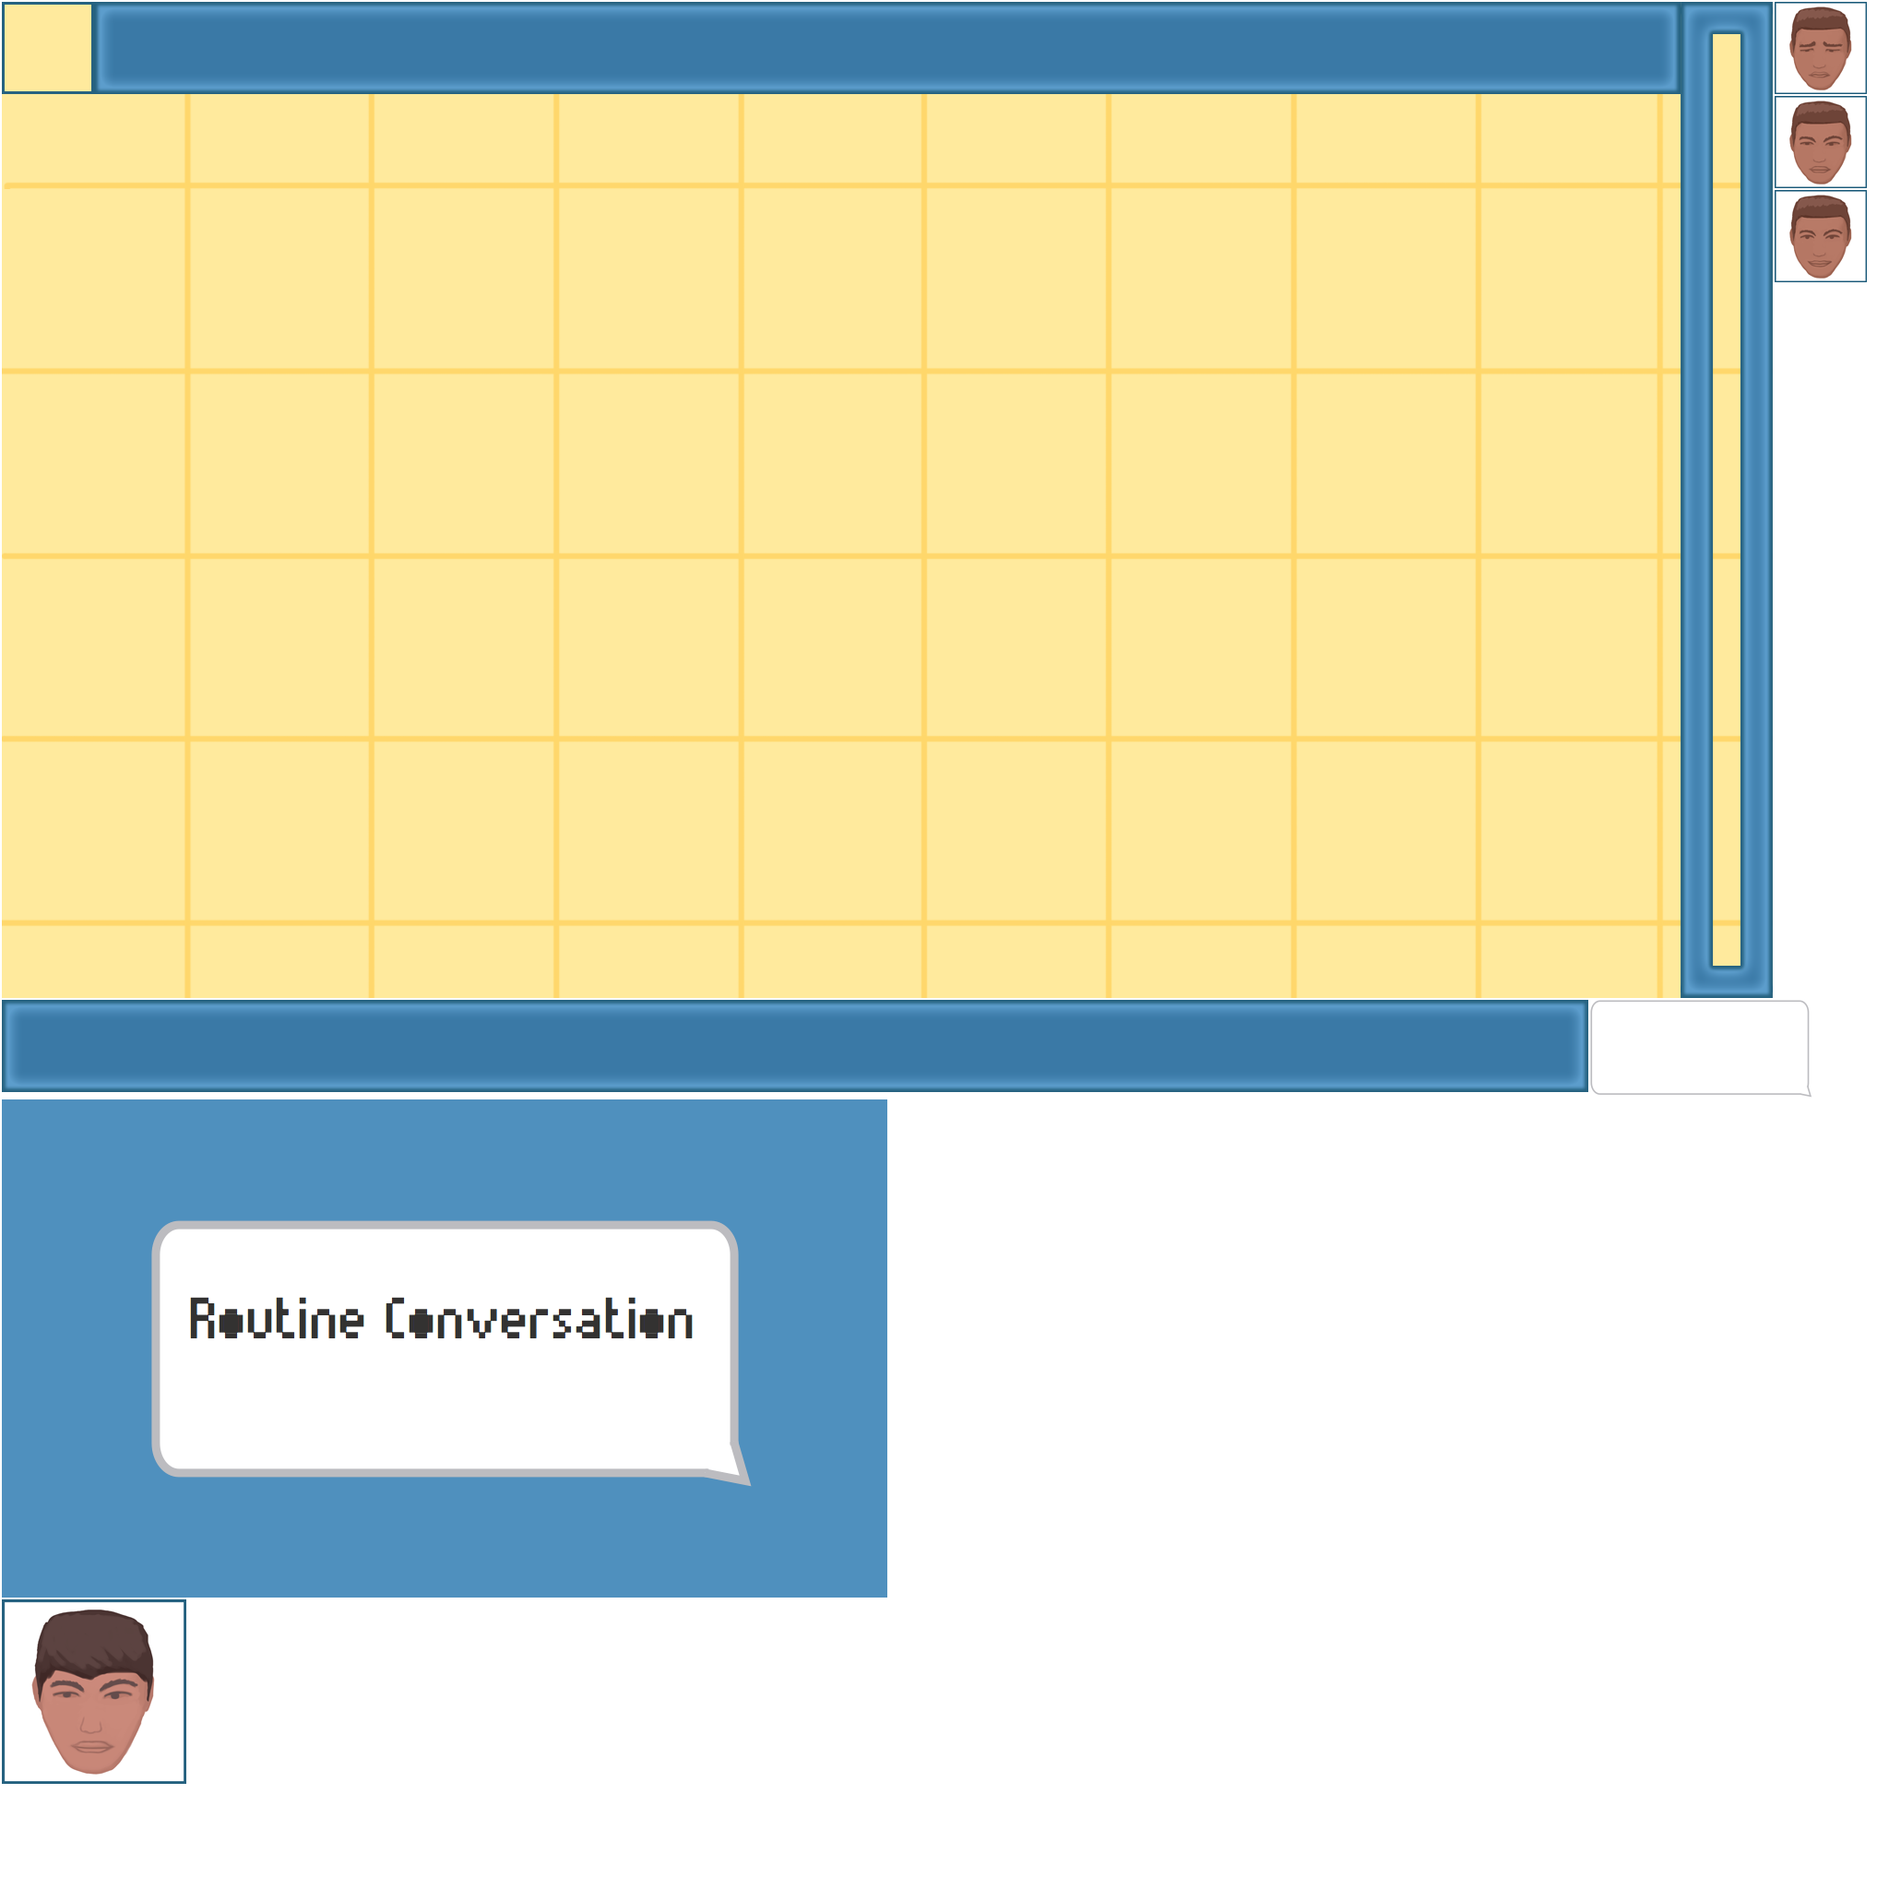
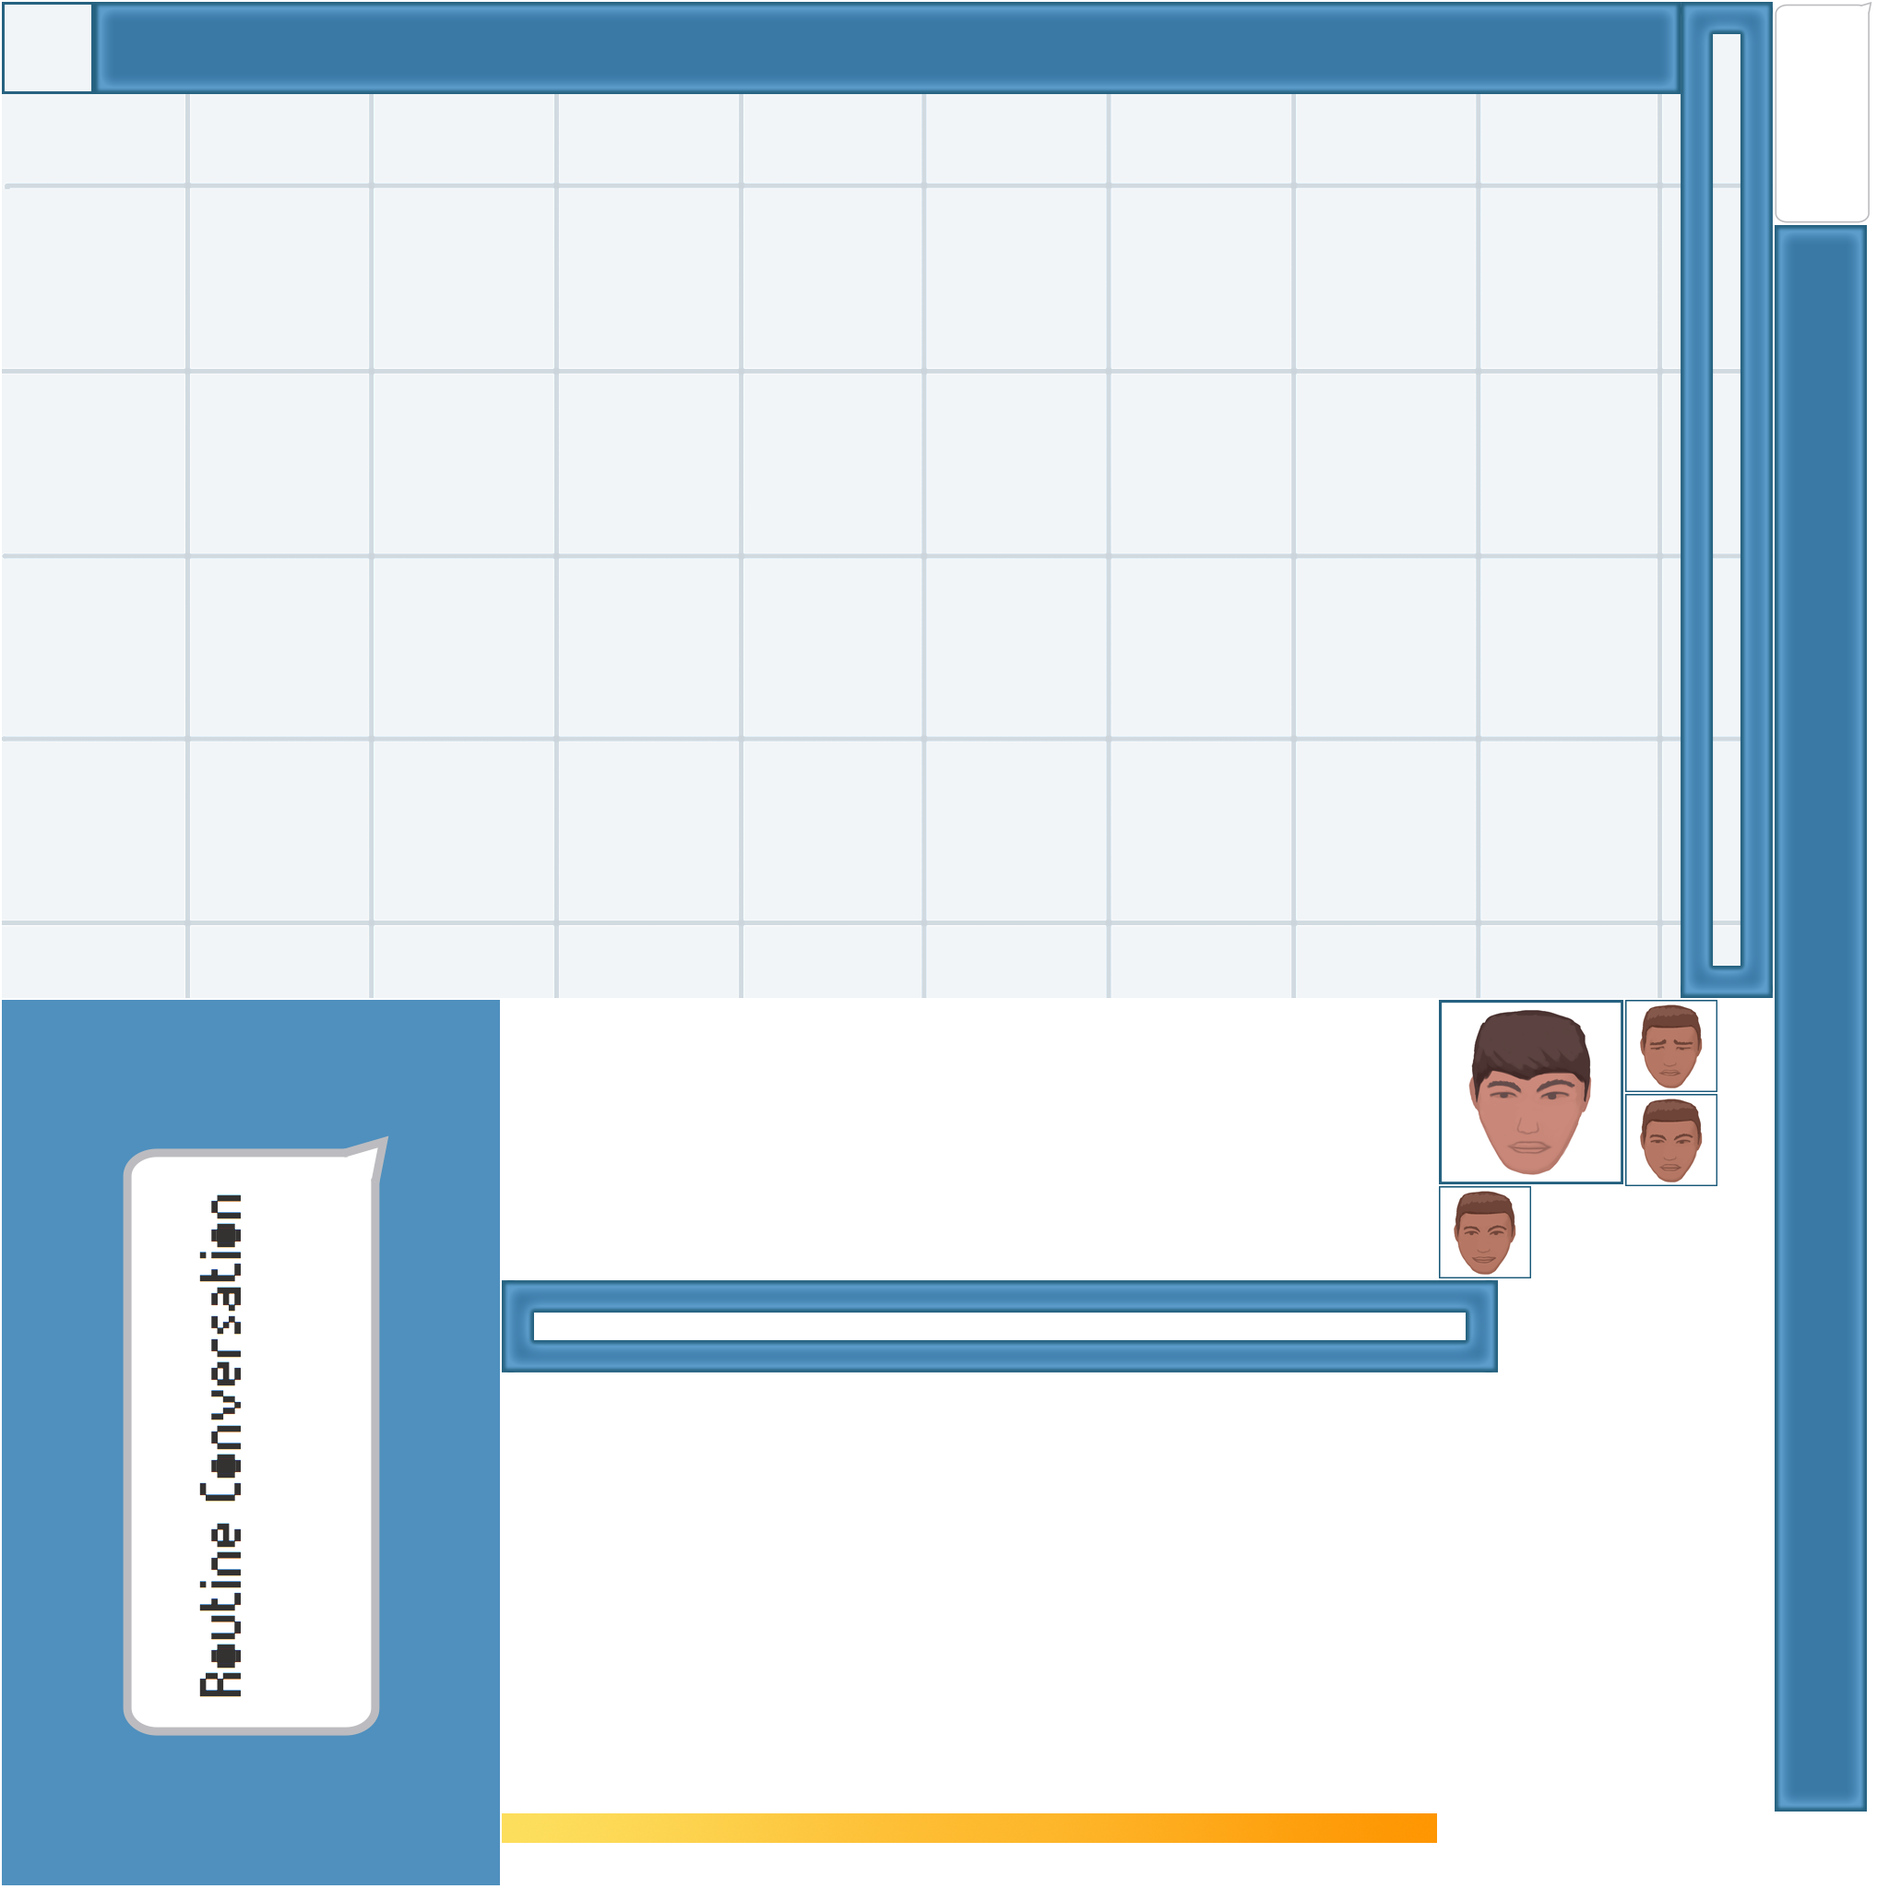
bar working & fixed a z-index bug.

diff --git a/core/src/com/agmcleod/ritual_of_conversation/systems/DialogueSystem.java b/core/src/com/agmcleod/ritual_of_conversation/systems/DialogueSystem.java
@@ -5,6 +5,7 @@ import com.agmcleod.ritual_of_conversation.actors.DialogueOptionBubbleActor;
 import com.agmcleod.ritual_of_conversation.actors.NpcTextActor;
 import com.agmcleod.ritual_of_conversation.components.DialogueOptionComponent;
 import com.agmcleod.ritual_of_conversation.components.TransformComponent;
+import com.agmcleod.ritual_of_conversation.entities.AwkwardBar;
 import com.agmcleod.ritual_of_conversation.entities.DialogueOptionBubble;
 import com.agmcleod.ritual_of_conversation.entities.NpcEntity;
 import com.agmcleod.ritual_of_conversation.entities.Player;
@@ -56,18 +57,18 @@ class DialogueContent {
  */
 public class DialogueSystem extends EntitySystem {
     private final float AWKWARDNESS_CAP = 100;
-    private final float BUBBLE_VELOCITY = 150;
+    private final float BUBBLE_VELOCITY = 250;
     private final float STAGGER = 200;
     private final float SELECTED_TIMEOUT = 1f;
     private final String AWKWARDNESS_CAP_ID = "32";
     private Array<DialogueOptionBubbleActor> currentDialogueActors;
+    private AwkwardBar awkwardBar;
     private int awkwardness;
     private String currentId = "1";
     private Map<String, DialogueContent> dialogues;
     private PlayScreen playScreen;
     private ImmutableArray<Entity> entities;
     private NpcEntity npcEntity;
-    private NpcTextActor npcTextActor;
     private Rectangle rectA;
     private Rectangle rectB;
     private Player player;
@@ -77,12 +78,12 @@ public class DialogueSystem extends EntitySystem {
             0, 150, 300, 450, 600
     };
 
-    public DialogueSystem(PlayScreen playScreen, NpcEntity npcEntity, NpcTextActor npcTextActor, Player player) {
+    public DialogueSystem(PlayScreen playScreen, NpcEntity npcEntity, Player player, AwkwardBar awkwardBar) {
         this.player = player;
         this.npcEntity = npcEntity;
         awkwardness = 0;
-        this.npcTextActor = npcTextActor;
         this.playScreen = playScreen;
+        this.awkwardBar = awkwardBar;
 
         rectA = new Rectangle();
         rectB = new Rectangle();
@@ -178,6 +179,8 @@ public class DialogueSystem extends EntitySystem {
                 awkwardness = 0;
             }
 
+            awkwardBar.setAwkwardOffset(awkwardness / AWKWARDNESS_CAP);
+
             npcEntity.setEmotionState(awkwardness / AWKWARDNESS_CAP);
 
             selectedTimer = SELECTED_TIMEOUT;
@@ -222,7 +225,7 @@ public class DialogueSystem extends EntitySystem {
                 currentDialogueActors.insert(i, actor);
             }
 
-            npcTextActor.setZIndex(999);
+            playScreen.bumpUiZIndex();
 
             setEntities(playScreen.getEngine());
             SoundManager.sounds.get("blip").play();

diff --git a/core/src/com/agmcleod/ritual_of_conversation/screens/PlayScreen.java b/core/src/com/agmcleod/ritual_of_conversation/screens/PlayScreen.java
@@ -2,10 +2,8 @@ package com.agmcleod.ritual_of_conversation.screens;
 
 import com.agmcleod.ritual_of_conversation.RitualOfConversation;
 import com.agmcleod.ritual_of_conversation.SoundManager;
-import com.agmcleod.ritual_of_conversation.actors.BackgroundActor;
-import com.agmcleod.ritual_of_conversation.actors.NpcCharacterActor;
-import com.agmcleod.ritual_of_conversation.actors.NpcTextActor;
-import com.agmcleod.ritual_of_conversation.actors.PlayerActor;
+import com.agmcleod.ritual_of_conversation.actors.*;
+import com.agmcleod.ritual_of_conversation.entities.AwkwardBar;
 import com.agmcleod.ritual_of_conversation.entities.NpcEntity;
 import com.agmcleod.ritual_of_conversation.entities.Player;
 import com.agmcleod.ritual_of_conversation.systems.DialogueSystem;
@@ -35,6 +33,8 @@ public class PlayScreen implements Screen {
     private TransitionCallback fadeOutCallback;
     private RitualOfConversation game;
     private BitmapFont npcFont;
+    private NpcCharacterActor npcCharacterActor;
+    private NpcTextActor npcTextActor;
     private ShapeRenderer shapeRenderer;
     private Stage stage;
     private boolean transitioningIn;
@@ -83,13 +83,21 @@ public class PlayScreen implements Screen {
         };
     }
 
+    public void bumpUiZIndex() {
+        npcTextActor.setZIndex(999);
+        npcCharacterActor.setZIndex(999);
+    }
+
     public void createDialogueSystem(Player player) {
         NpcEntity npcEntity = new NpcEntity();
-        NpcTextActor npcTextActor = new NpcTextActor(atlas, npcFont, npcEntity);
-        NpcCharacterActor npcCharacterActor = new NpcCharacterActor(atlas, npcEntity);
-        DialogueSystem dialogueSystem = new DialogueSystem(this, npcEntity, npcTextActor, player);
-        engine.addSystem(dialogueSystem);
+        npcTextActor = new NpcTextActor(atlas, npcFont, npcEntity);
+        npcCharacterActor = new NpcCharacterActor(atlas, npcEntity);
+        AwkwardBar awkwardBar = new AwkwardBar();
+        DialogueSystem dialogueSystem = new DialogueSystem(this, npcEntity, player, awkwardBar);
 
+        AwkwardBarActor awkwardBarActor = new AwkwardBarActor(atlas, awkwardBar);
+        engine.addSystem(dialogueSystem);
+        stage.addActor(awkwardBarActor);
         stage.addActor(npcTextActor);
         stage.addActor(npcCharacterActor);
     }

diff --git a/core/src/com/agmcleod/ritual_of_conversation/actors/DialogueOptionBubbleActor.java b/core/src/com/agmcleod/ritual_of_conversation/actors/DialogueOptionBubbleActor.java
@@ -3,10 +3,10 @@ package com.agmcleod.ritual_of_conversation.actors;
 import com.agmcleod.ritual_of_conversation.components.TransformComponent;
 import com.agmcleod.ritual_of_conversation.entities.DialogueOptionBubble;
 import com.agmcleod.ritual_of_conversation.helpers.EntityToScreenConversion;
+import com.agmcleod.ritual_of_conversation.helpers.TextureRegionDrawer;
 import com.badlogic.gdx.graphics.g2d.Batch;
 import com.badlogic.gdx.graphics.g2d.BitmapFont;
 import com.badlogic.gdx.graphics.g2d.TextureAtlas;
-import com.badlogic.gdx.graphics.g2d.TextureRegion;
 import com.badlogic.gdx.math.Vector2;
 import com.badlogic.gdx.scenes.scene2d.Actor;
 import com.badlogic.gdx.utils.Align;
@@ -17,7 +17,7 @@ import com.badlogic.gdx.utils.Align;
 public class DialogueOptionBubbleActor extends Actor {
     private DialogueOptionBubble dialogueOptionBubble;
     private BitmapFont font;
-    private TextureRegion region;
+    private TextureAtlas.AtlasRegion region;
     public DialogueOptionBubbleActor(TextureAtlas atlas, BitmapFont font, DialogueOptionBubble dialogueOptionBubble) {
         this.dialogueOptionBubble = dialogueOptionBubble;
         region = atlas.findRegion("speech");
@@ -29,7 +29,7 @@ public class DialogueOptionBubbleActor extends Actor {
     public void draw(Batch batch, float alpha) {
         setBoundsFromEntity();
         batch.setColor(1, 1, 1, dialogueOptionBubble.getDialogueOptionComponent().alpha);
-        batch.draw(region, getX(), getY(), getWidth(), getHeight());
+        TextureRegionDrawer.drawRegionForBatch(batch, region, getX(), getY(), getWidth(), getHeight());
         font.draw(batch, dialogueOptionBubble.getTextContentComponent().text, getX() + 20, getY() + getHeight() - 20, getWidth() - 40, Align.left, true);
         batch.setColor(1, 1, 1, 1);
     }

diff --git a/core/src/com/agmcleod/ritual_of_conversation/actors/AwkwardBarActor.java b/core/src/com/agmcleod/ritual_of_conversation/actors/AwkwardBarActor.java
@@ -1,0 +1,34 @@
+package com.agmcleod.ritual_of_conversation.actors;
+
+import com.agmcleod.ritual_of_conversation.components.TransformComponent;
+import com.agmcleod.ritual_of_conversation.entities.AwkwardBar;
+import com.agmcleod.ritual_of_conversation.helpers.EntityToScreenConversion;
+import com.agmcleod.ritual_of_conversation.helpers.TextureRegionDrawer;
+import com.badlogic.gdx.Gdx;
+import com.badlogic.gdx.graphics.g2d.Batch;
+import com.badlogic.gdx.graphics.g2d.TextureAtlas;
+import com.badlogic.gdx.math.Vector2;
+import com.badlogic.gdx.scenes.scene2d.Actor;
+
+/**
+ * Created by aaronmcleod on 2016-01-30.
+ */
+public class AwkwardBarActor extends Actor {
+    private AwkwardBar awkwardBar;
+    private TextureAtlas.AtlasRegion barBorder;
+    private TextureAtlas.AtlasRegion bar;
+    public AwkwardBarActor(TextureAtlas atlas, AwkwardBar awkwardBar) {
+        this.awkwardBar = awkwardBar;
+        this.bar = atlas.findRegion("awkwardbar");
+        barBorder = atlas.findRegion("barborder");
+    }
+
+    @Override
+    public void draw(Batch batch, float alpha) {
+        TransformComponent transformComponent = awkwardBar.getTransform();
+        Vector2 position = EntityToScreenConversion.getPosition(transformComponent);
+        setBounds(position.x, position.y, transformComponent.width, transformComponent.height);
+        TextureRegionDrawer.drawRegionForBatch(batch, bar, getX(), getY(), getWidth(), getHeight());
+        TextureRegionDrawer.drawRegionForBatch(batch, barBorder, Gdx.graphics.getWidth() - 50, 0, 50, Gdx.graphics.getHeight());
+    }
+}

diff --git a/core/src/com/agmcleod/ritual_of_conversation/screens/StartScreen.java b/core/src/com/agmcleod/ritual_of_conversation/screens/StartScreen.java
@@ -1,6 +1,7 @@
 package com.agmcleod.ritual_of_conversation.screens;
 
 import com.agmcleod.ritual_of_conversation.RitualOfConversation;
+import com.agmcleod.ritual_of_conversation.helpers.TextureRegionDrawer;
 import com.badlogic.gdx.Gdx;
 import com.badlogic.gdx.InputProcessor;
 import com.badlogic.gdx.Screen;
@@ -16,7 +17,7 @@ import com.badlogic.gdx.graphics.glutils.ShapeRenderer;
 public class StartScreen implements Screen, InputProcessor {
     private RitualOfConversation game;
     private TextureAtlas atlas;
-    private TextureRegion background;
+    private TextureAtlas.AtlasRegion background;
     private SpriteBatch batch;
     private TransitionCallback fadeOutCallback;
     private float fadeTimer;
@@ -48,7 +49,7 @@ public class StartScreen implements Screen, InputProcessor {
         Gdx.gl.glClearColor(0, 0, 0, 1);
         Gdx.gl.glClear(GL20.GL_COLOR_BUFFER_BIT);
         batch.begin();
-        batch.draw(background, 0, 0);
+        TextureRegionDrawer.drawRegionForBatch(batch, background, 0, 0, Gdx.graphics.getWidth(), Gdx.graphics.getHeight());
         batch.end();
 
         if (transitioningOut) {

diff --git a/core/src/com/agmcleod/ritual_of_conversation/actors/BackgroundActor.java b/core/src/com/agmcleod/ritual_of_conversation/actors/BackgroundActor.java
@@ -1,5 +1,6 @@
 package com.agmcleod.ritual_of_conversation.actors;
 
+import com.agmcleod.ritual_of_conversation.helpers.TextureRegionDrawer;
 import com.badlogic.gdx.Gdx;
 import com.badlogic.gdx.graphics.g2d.Batch;
 import com.badlogic.gdx.graphics.g2d.TextureAtlas;
@@ -10,13 +11,13 @@ import com.badlogic.gdx.scenes.scene2d.Actor;
  * Created by aaronmcleod on 2016-01-30.
  */
 public class BackgroundActor extends Actor {
-    private TextureRegion region;
+    private TextureAtlas.AtlasRegion region;
     public BackgroundActor(TextureAtlas atlas) {
         region = atlas.findRegion("background");
     }
 
     @Override
     public void draw(Batch batch, float alpha) {
-        batch.draw(region, 0, 0, Gdx.graphics.getWidth(), Gdx.graphics.getHeight());
+        TextureRegionDrawer.drawRegionForBatch(batch, region, 0, 0, Gdx.graphics.getWidth(), Gdx.graphics.getHeight());
     }
 }

diff --git a/core/src/com/agmcleod/ritual_of_conversation/entities/AwkwardBar.java b/core/src/com/agmcleod/ritual_of_conversation/entities/AwkwardBar.java
@@ -1,0 +1,21 @@
+package com.agmcleod.ritual_of_conversation.entities;
+
+import com.agmcleod.ritual_of_conversation.components.TransformComponent;
+import com.badlogic.gdx.Gdx;
+
+/**
+ * Created by aaronmcleod on 2016-01-30.
+ */
+public class AwkwardBar extends GameEntity {
+    private final float WIDTH = 16;
+    private final float HEIGHT = 507;
+    private float startY = 20-HEIGHT / 2;
+    public AwkwardBar() {
+        add(new TransformComponent(Gdx.graphics.getWidth() - 25, startY, WIDTH, HEIGHT));
+    }
+
+    public void setAwkwardOffset(float awkwardBarPercent) {
+        getTransform().position.y = startY + HEIGHT * awkwardBarPercent;
+        System.out.println();
+    }
+}

diff --git a/core/src/com/agmcleod/ritual_of_conversation/helpers/TextureRegionDrawer.java b/core/src/com/agmcleod/ritual_of_conversation/helpers/TextureRegionDrawer.java
@@ -1,0 +1,21 @@
+package com.agmcleod.ritual_of_conversation.helpers;
+
+import com.badlogic.gdx.graphics.g2d.Batch;
+import com.badlogic.gdx.graphics.g2d.TextureAtlas;
+
+/**
+ * Created by aaronmcleod on 2016-01-30.
+ */
+public class TextureRegionDrawer {
+    public static void drawRegionForBatch(Batch batch, TextureAtlas.AtlasRegion region, float x, float y, float width, float height) {
+        float w = width;
+        float h = height;
+        if (region.rotate) {
+            w = height;
+            h = width;
+            y += height;
+        }
+        batch.draw(region, x, y, 0, 0, w, h, 1, 1, region.rotate ? -90 : 0);
+    }
+
+}
